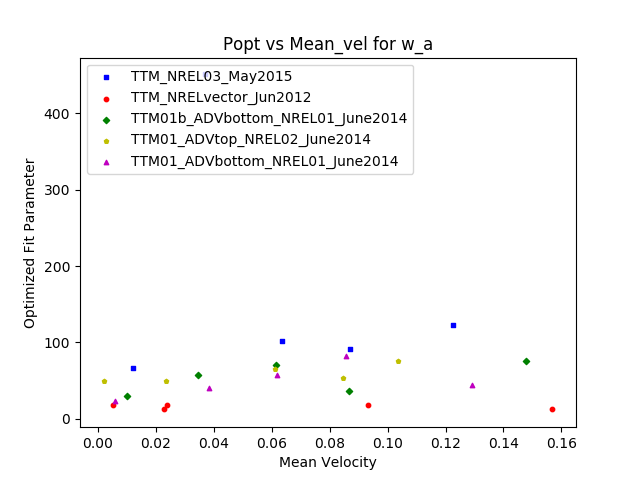
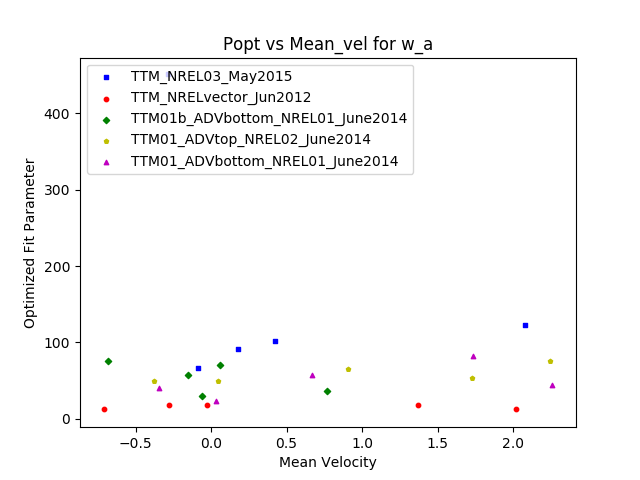
Adjusting plots to \bar{u} and beginning script for single fit

diff --git a/single_fit.py b/single_fit.py
@@ -1,0 +1,121 @@
+from __future__ import division
+import numpy as np
+from process_data import load_data
+from scipy import optimize
+import matplotlib.pyplot as plt
+import pandas as pd
+from os.path import isfile
+plt.ion()
+
+z = 10
+pii = 2 * np.pi
+
+FILENAMES = [
+    'TTM_NREL03_May2015',
+    'TTM_NRELvector_Jun2012',
+    'TTM01b_ADVbottom_NREL01_June2014',
+    'TTM01_ADVtop_NREL02_June2014',
+    'TTM01_ADVbottom_NREL01_June2014']
+
+df1 = pd.DataFrame.from_csv('./csv_files/TTM_NREL03_May2015_results.csv')
+a_u1 = df1['u_a']
+b_u1 = df1['u_b']
+a_v1 = df1['v_a']
+b_v1 = df1['v_b']
+a_w1 = df1['w_a']
+b_w1 = df1['w_b']
+mean_u1 = df1['mean_u']
+mean_v1 = df1['mean_v']
+mean_w1 = df1['mean_w']
+
+df2 = pd.DataFrame.from_csv('./csv_files/TTM_NRELvector_Jun2012_results.csv')
+a_u2 = df2['u_a']
+b_u2 = df2['u_b']
+a_v2 = df2['v_a']
+b_v2 = df2['v_b']
+a_w2 = df2['w_a']
+b_w2 = df2['w_b']
+mean_u2 = df2['mean_u']
+mean_v2 = df2['mean_v']
+mean_w2 = df2['mean_w']
+
+df3 = pd.DataFrame.from_csv('./csv_files/TTM01b_ADVbottom_NREL01_June2014_results.csv')
+a_u3 = df3['u_a']
+b_u3 = df3['u_b']
+a_v3 = df3['v_a']
+b_v3 = df3['v_b']
+a_w3 = df3['w_a']
+b_w3 = df3['w_b']
+mean_u3 = df3['mean_u']
+mean_v3 = df3['mean_v']
+mean_w3 = df3['mean_w']
+
+df4 = pd.DataFrame.from_csv('./csv_files/TTM01_ADVtop_NREL02_June2014_results.csv')
+a_u4 = df4['u_a']
+b_u4 = df4['u_b']
+a_v4 = df4['v_a']
+b_v4 = df4['v_b']
+a_w4 = df4['w_a']
+b_w4 = df4['w_b']
+mean_u4 = df4['mean_u']
+mean_v4 = df4['mean_v']
+mean_w4 = df4['mean_w']
+
+df5 = pd.DataFrame.from_csv('./csv_files/TTM01_ADVbottom_NREL01_June2014_results.csv')
+a_u5 = df5['u_a']
+b_u5 = df5['u_b']
+a_v5 = df5['v_a']
+b_v5 = df5['v_b']
+a_w5 = df5['w_a']
+b_w5 = df5['w_b']
+mean_u5 = df5['mean_u']
+mean_v5 = df5['mean_v']
+mean_w5 = df5['mean_w']
+
+frames = [df1, df2, df3, df4, df5]
+all = pd.concat(frames)
+
+
+def function(x_normalized, a, b):
+    """"Defines the functions that will fit the spectral data"""
+    return a / (1 + (b * x_normalized)) ** (5 / 3)
+
+
+def def_vars(dat_bin, uinds):
+    """Defines the variables"""
+    ustar = (dat_bin.upwp_ ** 2 + dat_bin.vpwp_ ** 2) ** .5
+    u_star = ustar[uinds].mean()
+    Uhor = (dat_bin.u ** 2 + dat_bin.v ** 2) ** .5
+    U_hor = Uhor[uinds].mean()
+    return u_star, U_hor
+
+
+def def_x_y(dat_bin, z, u_star, U_hor, uinds, freqinds):
+    """Defines x and y and normalizes them"""
+    x = dat_bin.freq
+    x = x[freqinds][uinds]
+    y = dat_bin.Spec[0, uinds] * pii
+    x_norm = (x * z) / U_hor
+    y_norm = (y * U_hor) / (z * u_star)
+    return x_norm, y_norm, x, y
+
+df = pd.DataFrame()
+x_norms = []
+y_norms = []
+xs = []
+ys = []
+for filename in FILENAMES:
+    dat_bin = load_data(filename + '_binned')
+    uinds = abs(dat_bin.u) > 0.5
+    freqinds = dat_bin.freq > 1
+    u_star, U_hor = def_vars(dat_bin, uinds)
+    x_norm, y_norm, x, y = def_x_y(dat_bin, z, u_star, U_hor, uinds, freqinds)
+    x_norms.append(x_norm)
+    y_norms.append(y_norm)
+    xs.append(x)
+    ys.append(y)
+
+df['x_norm'] = x_norms
+df['y_norm'] = y_norms
+df['x'] = xs
+df['y'] = ys

diff --git a/analysis.py b/analysis.py
@@ -79,9 +79,9 @@ mean_w5 = df5['mean_w']
 scatter(mean_u1, a_u1, mean_u2, a_u2, mean_u3, a_u3, mean_u4, a_u4, mean_u5, a_u5, 'u_a')
 scatter(mean_u1, b_u1, mean_u2, b_u2, mean_u3, b_u3, mean_u4, b_u4, mean_u5, b_u5, 'u_b')
 
-scatter(mean_v1, a_v1, mean_v2, a_v2, mean_v3, a_v3, mean_v4, a_v4, mean_v5, a_v5, 'v_a')
-scatter(mean_v1, b_v1, mean_v2, b_v2, mean_v3, b_v3, mean_v4, b_v4, mean_v5, b_v5, 'v_b')
+scatter(mean_u1, a_v1, mean_u2, a_v2, mean_u3, a_v3, mean_u4, a_v4, mean_u5, a_v5, 'v_a')
+scatter(mean_u1, b_v1, mean_u2, b_v2, mean_u3, b_v3, mean_u4, b_v4, mean_u5, b_v5, 'v_b')
 
-scatter(mean_w1, a_w1, mean_w2, a_w2, mean_w3, a_w3, mean_w4, a_w4, mean_w5, a_w5, 'w_a')
-scatter(mean_w1, b_w1, mean_w2, b_w2, mean_w3, b_w3, mean_w4, b_w4, mean_w5, b_w5, 'w_b')
+scatter(mean_u1, a_w1, mean_u2, a_w2, mean_u3, a_w3, mean_u4, a_w4, mean_u5, a_w5, 'w_a')
+scatter(mean_u1, b_w1, mean_u2, b_w2, mean_u3, b_w3, mean_u4, b_w4, mean_u5, b_w5, 'w_b')
 

diff --git a/spectral_fit_v.py b/spectral_fit_v.py
@@ -69,7 +69,7 @@ for filename in FILENAMES:
             (0.05 < abs(dat_bin.v)) & (abs(dat_bin.v) < 0.1),
             (0.1 < abs(dat_bin.v)) & (abs(dat_bin.v) < 0.2),
             (0.2 < abs(dat_bin.v)) & (abs(dat_bin.v) < 0.3),
-            abs(dat_bin.u) > 0.3]
+            abs(dat_bin.v) > 0.3]
     VINDS_words = [' v less than 0.5 ',
                    ' v between 0.5 and 1.0 ',
                    ' v between 1.0 and 1.5 ',
